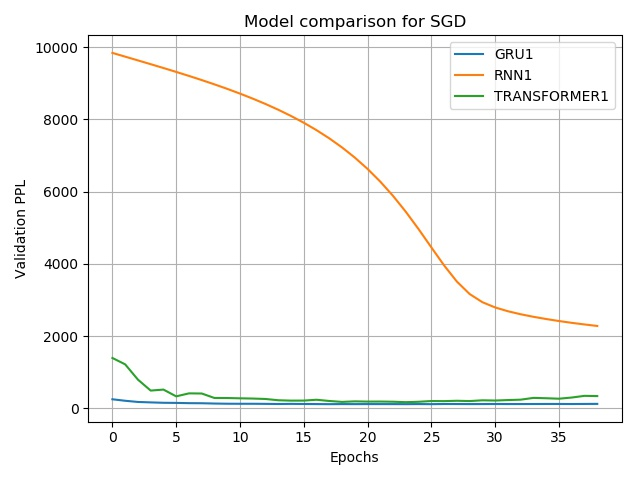
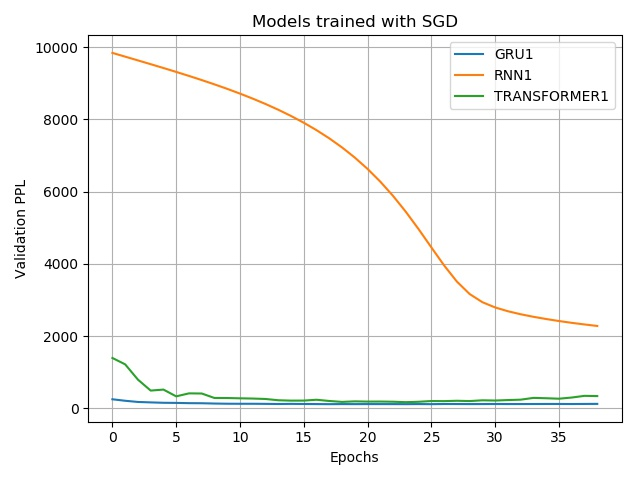
Changed plot titles

Changed region(s): [[0.375, 0.0312, 0.75, 0.0625]]

diff --git a/Assignment2/plot_script.py b/Assignment2/plot_script.py
@@ -38,13 +38,13 @@ if args.Q == '4.1':
 
 		fig,ax = plt.subplots(1)
 		plt.grid()
-		ax.set_title("{}-{}-Original Hyperparameters".format(path[1],path[2]))
+		ax.set_title("{} ({}) Learning Curve per Epochs".format(path[1],path[2]))
 		ax.plot(train_ppls[1:],label="Train PPL") #Start from 1 as the first PPL is too high
 		ax.plot(val_ppls[1:],label="Validation PPL") #Start from 1 as the first PPL is too high
 		ax.legend()
 		ax.set_xlabel("Epochs")
 		ax.set_ylabel("PPL")	
-		plt.savefig("plots/4.1/{}_{}_orig.jpg".format(path[1],path[2]))
+		plt.savefig("plots/4.1/{}_{}.jpg".format(path[1],path[2]))
 		plt.close()
 
 		with open('{}/{}/log.txt'.format(res_path,path[0])) as f:
@@ -53,13 +53,13 @@ if args.Q == '4.1':
 		x = np.cumsum(np.asarray([float(row[4][len('time (s) spent in epoch: '):]) for row in log]))[1:]
 		fig,ax = plt.subplots(1)
 		plt.grid()
-		ax.set_title("(4.1) {}-{}-Original Hyperparameters".format(path[1],path[2]))
+		ax.set_title("{} ({}) Learning Curve per wall-clock-time".format(path[1],path[2]))
 		ax.plot(x,train_ppls[1:],label="Train PPL") #Start from 1 as the first PPL is too high
 		ax.plot(x,val_ppls[1:],label="Validation PPL") #Start from 1 as the first PPL is too high
 		ax.legend()
 		ax.set_xlabel("Time (seconds)")
-		ax.set_ylabel("PPL")	
-		plt.savefig("plots/4.1/{}_{}_orig_seconds.jpg".format(path[1],path[2]))
+		ax.set_ylabel("PPL")
+		plt.savefig("plots/4.1/{}_{}_seconds.jpg".format(path[1],path[2]))
 		plt.close()
 
 
@@ -69,7 +69,7 @@ elif args.Q == '4.4':
 		paths = filter_paths([optim])
 		fig,ax = plt.subplots(1)
 		plt.grid()
-		ax.set_title("Model comparison for {}".format(optim))
+		ax.set_title("Models trained with {}".format(optim))
 		for path in paths:
 			curves = np.load("{}/{}/learning_curves.npy".format(res_path,path[0])).item()
 			train_ppls,val_ppls = curves['train_ppls'],curves['val_ppls']
@@ -82,7 +82,7 @@ elif args.Q == '4.4':
 
 		fig,ax = plt.subplots(1)
 		plt.grid()
-		ax.set_title("Model comparison for {}".format(optim))
+		ax.set_title("Models trained with {}".format(optim))
 		for path in paths:
 			curves = np.load("{}/{}/learning_curves.npy".format(res_path,path[0])).item()
 			train_ppls,val_ppls = curves['train_ppls'],curves['val_ppls']
